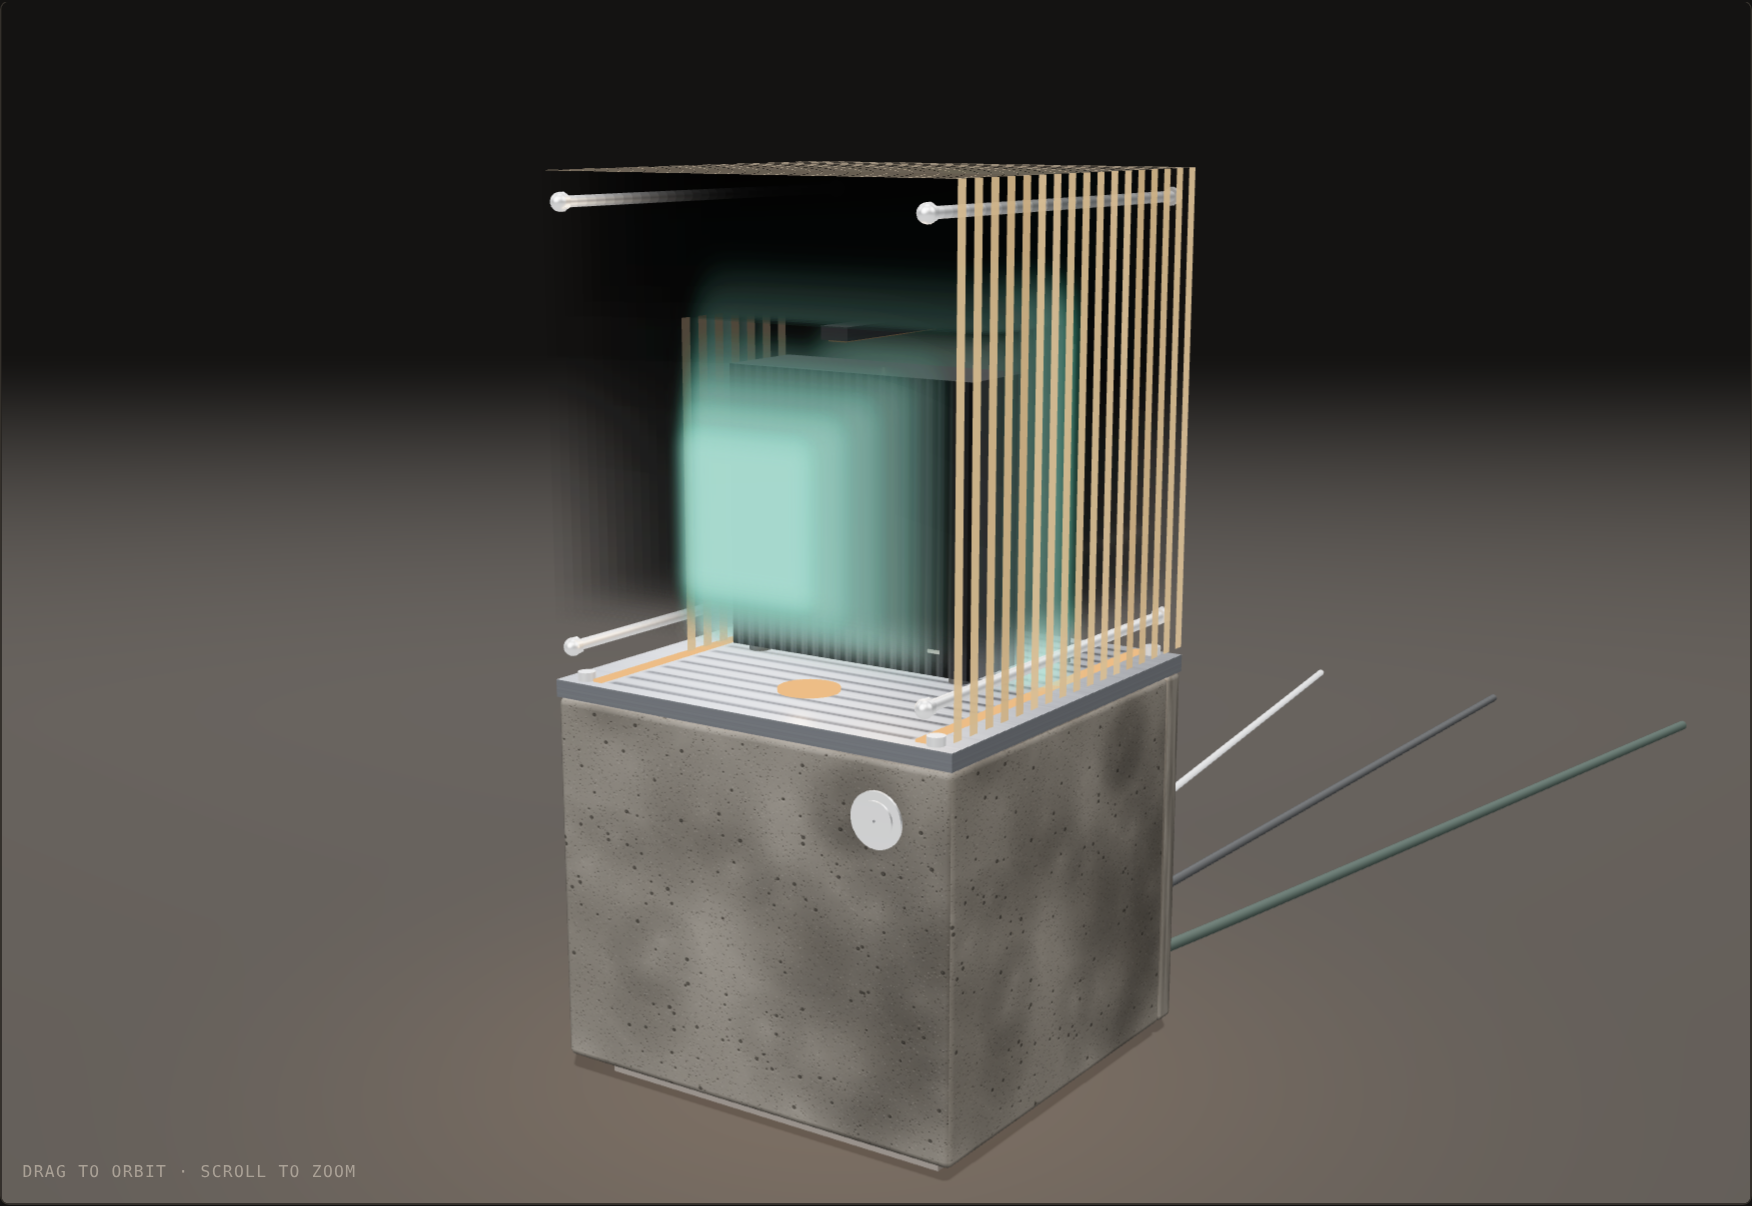
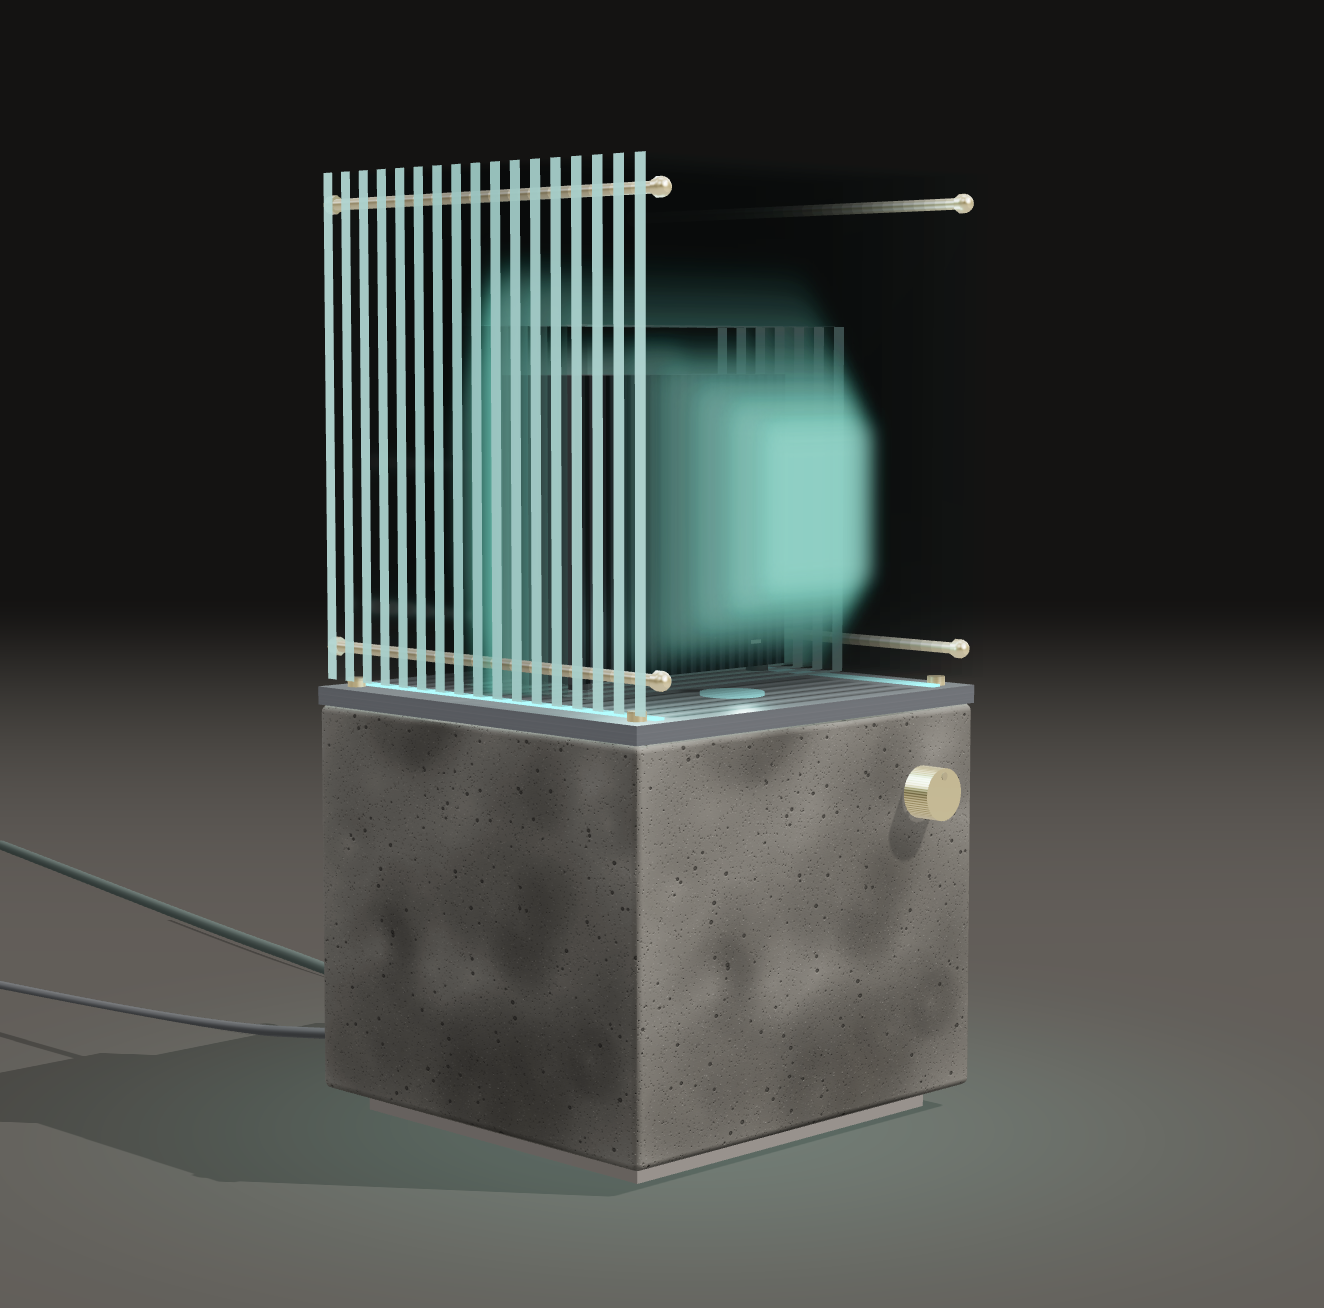
Use V's renders as the lead pictures for the Float and the Lantern
Claude-Session: https://claude.ai/code/session_01FnZHM19Kajv46RPbcrrSnG

diff --git a/builds/the-lantern/README.md b/builds/the-lantern/README.md
@@ -2,7 +2,7 @@
 
 A home media server you'd want in the living room: a silent, fanless computer and two drives inside a block of tinted acrylic panes on a cast concrete base. It doubles as a lamp beside the TV.
 
-![The Lantern in evening mode: tinted panes glowing around the computer, on a cast concrete base. Concept render.](images/hero.png)
+![The Lantern: tinted acrylic panes glowing around the computer, on a cast concrete base with a brass knob. Concept render.](images/hero.png)
 
 **Status:** Designed; build guide complete; not yet built.
 **Principles applied:**
@@ -13,9 +13,9 @@ A home media server you'd want in the living room: a silent, fanless computer an
 
 Concept renders from the interactive model, not photos.
 
-| Lamp, from the front | Colour mode | Drives pulled | The back |
+| From the front | Colour mode | Drives pulled | The back |
 |---|---|---|---|
-| ![Front view in lamp mode](images/lamp.png) | ![Three-quarter view in colour mode](images/color.png) | ![The drive sled pulled out of the concrete vault](images/drives.png) | ![The back plate and cables](images/back.png) |
+| ![Front view: the window glowing through the darker centre panes](images/front.png) | ![Three-quarter view in colour mode](images/color.png) | ![The drive sled pulled out of the concrete vault](images/drives.png) | ![The back plate and cables](images/back.png) |
 
 ## Files
 

diff --git a/builds/the-float/README.md b/builds/the-float/README.md
@@ -16,8 +16,8 @@ Concept renders from the 3D model, not photos.
 | The gap | Inside | The back |
 |---|---|---|
 | ![The gap under the case, the brass posts and the toggle with its rays](images/the-gap.png) | ![Inside: Dark Wood board, amber cables, gold-ringed fans](images/inside.png) | ![The back: stock and industrial, the orange cord dropping to a brass clip](images/back.png) |
-| **Asleep** | **Glass clear, to inspect** | |
-| ![Asleep: the fans dark, the seam breathing](images/asleep.png) | ![The glass shown clear: the whole build visible](images/clear.png) | |
+| **The reeded wrap** | **Asleep** | **Glass clear, to inspect** |
+| ![The reeded wrap from the corner: the build reads as soft vertical bands](images/reeded.png) | ![Asleep: the fans dark, the seam breathing](images/asleep.png) | ![The glass shown clear: the whole build visible](images/clear.png) |
 
 ## Files
 
